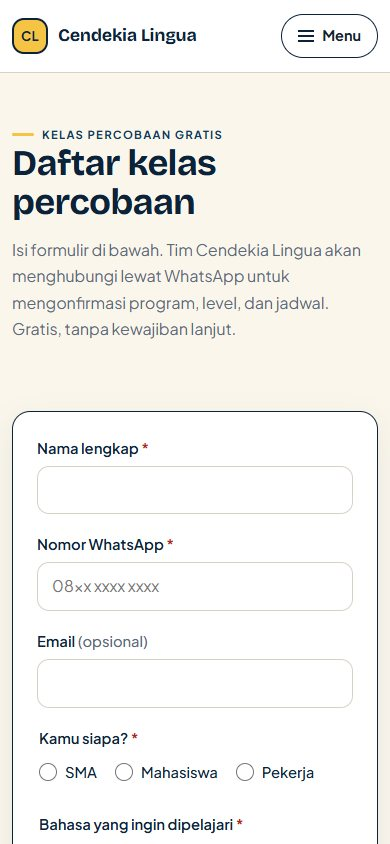
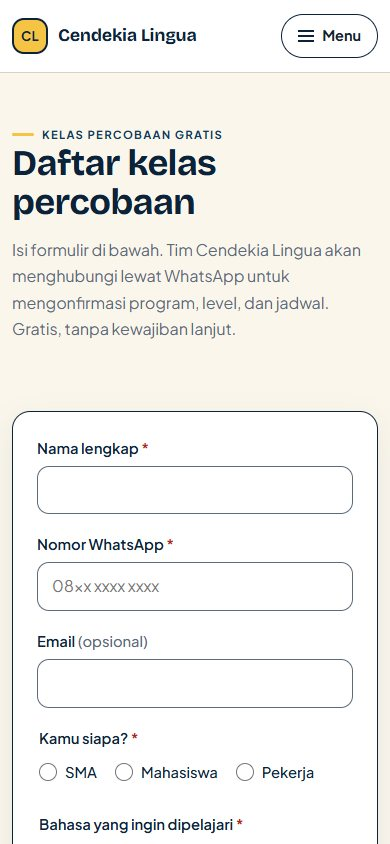
fix: address accessibility and interaction review findings
Raise form border contrast, use a visible ring on the navy CTA band, replace incomplete wireframe tab semantics with pressed toggles, keep one artboard for deep links, harden prefill and packaging, and make the contrast test compute real WCAG ratios.

Changed region(s): [[0.0923, 0.5545, 0.1231, 0.5853]]

diff --git a/js/main.js b/js/main.js
@@ -171,8 +171,18 @@ const Cendekia = {
     });
 
     nav.addEventListener('click', (event) => {
-      if (event.target.closest('a') && window.innerWidth < 980) {
-        closeNav(false);
+      const link = event.target.closest('a');
+      if (!link || window.innerWidth >= 980) return;
+
+      closeNav(false);
+
+      const url = new URL(link.href, window.location.href);
+      const samePage = url.pathname === window.location.pathname;
+      const target = samePage && url.hash ? document.getElementById(url.hash.slice(1)) : null;
+
+      if (target) {
+        target.setAttribute('tabindex', '-1');
+        target.focus({ preventScroll: true });
       }
     });
   },
@@ -283,8 +293,9 @@ const Cendekia = {
 
   prefillLeadProgram(form) {
     const slug = new URLSearchParams(window.location.search).get('program');
+    if (!slug || !Object.hasOwn(LEAD_PROGRAMS, slug)) return;
+
     const program = LEAD_PROGRAMS[slug];
-    if (!program) return;
 
     const note = document.querySelector('[data-program-note]');
     const name = document.querySelector('[data-program-name]');
@@ -389,7 +400,8 @@ const Cendekia = {
     form.hidden = true;
     panel.hidden = false;
     panel.querySelector('h2')?.focus();
-    panel.scrollIntoView({ behavior: 'smooth', block: 'start' });
+    const reduceMotion = window.matchMedia('(prefers-reduced-motion: reduce)').matches;
+    panel.scrollIntoView({ behavior: reduceMotion ? 'auto' : 'smooth', block: 'start' });
   },
 
   initWireframe() {
@@ -411,13 +423,19 @@ const Cendekia = {
         frame.classList.toggle('is-active', frame.dataset.artboardFrame === name);
       });
       tabs.forEach((tab) => {
-        tab.setAttribute('aria-selected', String(tab.dataset.artboardTab === name));
+        tab.setAttribute('aria-pressed', String(tab.dataset.artboardTab === name));
       });
       document.documentElement.dataset.wireframeArtboard = name;
     };
 
     const requested = params.get('artboard');
-    const initial = ['desktop', 'mobile'].includes(requested)
+    const hasRequest = ['desktop', 'mobile'].includes(requested);
+
+    if (hasRequest) {
+      document.documentElement.classList.add('has-artboard-request');
+    }
+
+    const initial = hasRequest
       ? requested
       : window.matchMedia('(max-width: 759px)').matches
         ? 'mobile'
@@ -425,14 +443,20 @@ const Cendekia = {
 
     setActive(initial);
 
-    if (!requested) {
+    let userChosen = false;
+
+    if (!hasRequest) {
       const media = window.matchMedia('(max-width: 759px)');
-      const syncDefault = () => setActive(media.matches ? 'mobile' : 'desktop');
-      window.addEventListener('load', syncDefault, { once: true });
+      media.addEventListener('change', (event) => {
+        if (!userChosen) setActive(event.matches ? 'mobile' : 'desktop');
+      });
     }
 
     tabs.forEach((tab) => {
-      tab.addEventListener('click', () => setActive(tab.dataset.artboardTab));
+      tab.addEventListener('click', () => {
+        userChosen = true;
+        setActive(tab.dataset.artboardTab);
+      });
     });
   },
 

diff --git a/style-guide.html b/style-guide.html
@@ -93,7 +93,7 @@
         </div>
         <ul class="sg-swatches">
           <li class="sg-swatch" data-swatch="navy-900">
-            <div class="sg-swatch-chip" style="--swatch: #0B2239; --on-swatch: #FAF6EC"><span>Aa</span></div>
+            <div class="sg-swatch-chip" style="--swatch: #0B2239; --on-swatch: #FFFFFF"><span>Aa</span></div>
             <div class="sg-swatch-body">
               <p class="sg-swatch-name">Navy 900</p>
               <code>#0B2239</code>
@@ -156,16 +156,16 @@
             </div>
           </li>
           <li class="sg-swatch" data-swatch="muted">
-            <div class="sg-swatch-chip" style="--swatch: #5C6B7A; --on-swatch: #FFFFFF"><span>Aa</span></div>
+            <div class="sg-swatch-chip" style="--swatch: #5C6B7A; --on-swatch: #FAF6EC"><span>Aa</span></div>
             <div class="sg-swatch-body">
               <p class="sg-swatch-name">Muted</p>
               <code>#5C6B7A</code>
               <p class="sg-ratio">5.07:1</p>
-              <p class="sg-usage">Di atas cream. Teks sekunder, keterangan, dan metadata.</p>
+              <p class="sg-usage">Di atas cream. Teks sekunder, metadata, dan border field form.</p>
             </div>
           </li>
           <li class="sg-swatch" data-swatch="line">
-            <div class="sg-swatch-chip" style="--swatch: #D8D2C4; --on-swatch: #0B2239"><span>Aa</span></div>
+            <div class="sg-swatch-chip" style="--swatch: #D8D2C4; --on-swatch: #FFFFFF"><span>Aa</span></div>
             <div class="sg-swatch-body">
               <p class="sg-swatch-name">Line</p>
               <code>#D8D2C4</code>

diff --git a/css/style.css b/css/style.css
@@ -187,7 +187,8 @@ p {
   outline-offset: 3px;
 }
 
-.site-footer :focus-visible {
+.site-footer :focus-visible,
+.cta-band :focus-visible {
   outline-color: var(--yellow-400);
 }
 
@@ -436,7 +437,7 @@ textarea {
   width: 100%;
   min-height: 44px;
   padding: 10px 14px;
-  border: 1.5px solid var(--line);
+  border: 1.5px solid var(--muted);
   border-radius: var(--radius-input);
   background: var(--white);
   color: var(--ink);
@@ -450,8 +451,8 @@ textarea {
 input:focus,
 select:focus,
 textarea:focus {
-  border-color: var(--navy-700);
-  outline: 3px solid var(--yellow-100);
+  border-color: var(--navy-900);
+  outline: 3px solid var(--navy-900);
   outline-offset: 1px;
 }
 
@@ -1761,7 +1762,7 @@ textarea[aria-invalid="true"] {
   cursor: pointer;
 }
 
-.wf-switch button[aria-selected="true"] {
+.wf-switch button[aria-pressed="true"] {
   background: var(--navy-900);
   color: var(--white);
 }
@@ -2355,6 +2356,12 @@ textarea[aria-invalid="true"] {
 }
 .is-export .wf-artboard--desktop { zoom: 1; }
 .is-export .wf-artboard--mobile { zoom: 1; }
+
+/* A deep link to one artboard stays on that artboard, even on wide screens. */
+.has-artboard-request .wf-stage { display: block; }
+.has-artboard-request .wf-frame { display: none; }
+.has-artboard-request .wf-frame.is-active { display: block; }
+.has-artboard-request .wf-switch { display: inline-flex; }
 
 /* --------------------------------------------------------------------------
    Style guide

diff --git a/wireframe.html b/wireframe.html
@@ -48,9 +48,9 @@
           <li><strong>Gaya:</strong> grayscale; warna dan tipografi final dibahas di <a href="style-guide.html">style guide</a>.</li>
           <li><strong>Skala:</strong> desktop diperkecil ±0,6 saat dua artboard tampil berdampingan; mobile tetap 1:1.</li>
         </ul>
-        <div class="wf-switch" data-artboard-switch role="tablist" aria-label="Pilih artboard">
-          <button type="button" role="tab" data-artboard-tab="desktop" aria-selected="true" aria-controls="wf-desktop">Desktop 1440</button>
-          <button type="button" role="tab" data-artboard-tab="mobile" aria-selected="false" aria-controls="wf-mobile">Mobile 390</button>
+        <div class="wf-switch" data-artboard-switch aria-label="Pilih artboard">
+          <button type="button" data-artboard-tab="desktop" aria-pressed="true">Desktop 1440</button>
+          <button type="button" data-artboard-tab="mobile" aria-pressed="false">Mobile 390</button>
         </div>
         <p class="wf-hint">Di bawah 1360 px hanya satu artboard tampil. Desktop bisa digeser di dalam frame; body halaman tidak pernah scroll horizontal.</p>
       </div>

diff --git a/daftar.html b/daftar.html
@@ -131,6 +131,7 @@
             <div class="form-actions">
               <button class="btn btn-primary" type="button" data-submit>Kirim pendaftaran</button>
               <p class="form-note">Mode demo — data tidak dikirim ke server.</p>
+              <noscript><p class="form-note">Form ini memerlukan JavaScript untuk validasi dan mode demo. Tanpa JavaScript, tidak ada data yang dikirim.</p></noscript>
             </div>
           </form>
 

diff --git a/docs/design-notes.md b/docs/design-notes.md
@@ -66,8 +66,8 @@ Section “program” dan “harga” sengaja berdekatan. Setelah pengunjung men
 | `--cream` | `#FAF6EC` | Latar utama | 14.94:1 dengan navy |
 | `--white` | `#FFFFFF` | Kartu dan input | 16.13:1 dengan navy |
 | `--ink` | `#16202B` | Body text | 15.25:1 di cream |
-| `--muted` | `#5C6B7A` | Teks sekunder | 5.07:1 di cream |
-| `--line` | `#D8D2C4` | Border dekoratif | 1.51:1 — tidak untuk teks |
+| `--muted` | `#5C6B7A` | Teks sekunder dan border field form | 5.07:1 di cream |
+| `--line` | `#D8D2C4` | Border dekoratif saja | 1.51:1 - tidak untuk teks atau batas field |
 | `--success` | `#1F7A5C` | WhatsApp dan status sukses | 5.25:1 dengan putih |
 
 Prinsipnya:
@@ -75,7 +75,7 @@ Prinsipnya:
 - Navy dipakai untuk struktur dan teks, bukan untuk semua permukaan.
 - Kuning hanya untuk aksi utama dan highlight. Kalau semua tombol kuning, tidak ada yang menonjol.
 - Krem memberi kesan hangat dan membedakan dari template putih-biru yang generik.
-- Rasio kontras dihitung dengan rumus WCAG, bukan dikarang. Angka yang sama muncul di `style-guide.html`.
+- Rasio kontras dihitung dengan rumus WCAG, bukan dikarang. Angka yang sama muncul di `style-guide.html`, dan test menghitung ulang setiap pasangan warna.
 - Kuning tidak pernah dipakai sebagai teks di atas putih. Rasionya hanya 1.63:1.
 
 ### Tipografi
@@ -154,9 +154,11 @@ Yang diterapkan:
 
 - Landmark `header`, `nav`, `main`, `footer`; satu `h1` per halaman; heading tidak melompat.
 - Skip link “Langsung ke konten” yang muncul saat fokus.
-- Fokus keyboard memakai outline navy 3 px dengan offset 3 px, bukan `outline: none`.
-- Drawer mobile: `aria-expanded`, fokus masuk ke link pertama, Escape menutup, fokus kembali ke tombol menu, dan fokus terperangkap di dalam drawer saat Tab.
+- Fokus keyboard memakai outline navy 3 px dengan offset 3 px, bukan `outline: none`. Di footer dan CTA band yang berlatar navy, warna outline diganti kuning.
+- Border field form memakai `--muted` (5.07:1 di cream), bukan `--line`, supaya batas kontrol tetap terlihat.
+- Drawer mobile: `aria-expanded`, fokus masuk ke link pertama, Escape menutup, fokus kembali ke tombol menu, dan fokus terperangkap di dalam drawer saat Tab. Link anchor memindahkan fokus ke section tujuan.
 - Tab audiens: `role="tablist"`, `aria-selected`, `aria-controls`, panah kiri/kanan, Home, dan End.
+- Wireframe memakai dua toggle button dengan `aria-pressed`, bukan `role="tab"` setengah jadi.
 - Filter program: `aria-pressed` pada setiap chip.
 - Dialog WhatsApp: `<dialog>` native, fokus masuk, Escape menutup, fokus kembali ke pemicu, body tidak scroll. Handler `cancel` dibuat eksplisit supaya perilaku tidak bergantung pada event `close` native.
 - Form: label eksplisit, error `aria-invalid` + `aria-describedby`, fokus pindah ke field pertama yang salah.
@@ -177,7 +179,7 @@ Satu temuan kontras ditemukan saat Lighthouse pertama: teks “CL” di logo foo
 
 Diuji dengan Chrome headless dan Chrome visible (Playwright), viewport 390, 768, dan 1440 px.
 
-- 41 automated test pass.
+- 41 markup/content contract test pass. Perilaku interaktif di bawah ini diverifikasi manual di browser, bukan oleh test tersebut.
 - 0 console error dan 0 request lokal gagal.
 - Tidak ada horizontal overflow.
 - Semua link internal dan anchor valid.
@@ -185,7 +187,9 @@ Diuji dengan Chrome headless dan Chrome visible (Playwright), viewport 390, 768,
 - Form invalid memfokuskan `name`; submit valid menampilkan success panel dan menghasilkan 0 request jaringan.
 - Sticky CTA aktif setelah hero, memberi padding bawah 88 px, dan tidak menutupi footer.
 - Dialog: close button, backdrop, dan Escape semuanya melepas `body` lock serta mengembalikan fokus.
-- Focus ring terverifikasi lewat Tab nyata: outline solid 3 px `rgb(11, 34, 57)`.
+- Focus ring terverifikasi lewat Tab nyata: outline solid 3 px `rgb(11, 34, 57)`, dan kuning di atas CTA band navy.
+- Link anchor dari drawer memindahkan fokus ke section tujuan.
+- Wireframe: toggle `aria-pressed` berubah, deep link `?artboard=mobile` hanya menampilkan mobile di desktop.
 
 Yang belum diuji: screen reader sungguhan (NVDA/VoiceOver), Safari, Firefox, dan perangkat fisik. Performa produksi juga belum diukur setelah deploy.
 

diff --git a/README.md b/README.md
@@ -129,7 +129,7 @@ Kalau memakai `file://`, sebagian browser memblokir pemuatan font atau modul. St
 node --test "tests/*.test.mjs"
 ```
 
-Saat README ini ditulis: **41 test, 41 pass**. Cakupannya:
+Saat README ini ditulis: **41 test, 41 pass**. Test ini berbasis markup dan kontrak source, bukan browser otomatis. Perilaku interaktif diverifikasi manual di Chrome (lihat bagian QA di bawah). Cakupannya:
 
 - Struktur lima halaman: doctype, `lang="id"`, viewport, satu `h1`, landmark, skip link, dialog, dan disclaimer.
 - Token warna/font, reduced motion, serta kontrak `window.Cendekia`.
@@ -137,9 +137,9 @@ Saat README ini ditulis: **41 test, 41 pass**. Cakupannya:
 - Halaman program: empat filter, enam kartu sesuai matriks, placement test.
 - Form: sembilan field, opsi yang benar, validasi, success panel, dan tidak ada pengiriman data.
 - Wireframe: dua artboard literal, anotasi, switcher, dan mode ekspor.
-- Style guide: sepuluh section, sepuluh token dengan rasio kontras hasil hitungan, specimen tipe, state tombol/form, komponen, spacing, do/don't, dan catatan aksesibilitas.
+- Style guide: sepuluh section, sepuluh token dengan rasio kontras yang dihitung ulang oleh test dari pasangan warna, specimen tipe, state tombol/form, komponen, spacing, do/don't, dan catatan aksesibilitas.
 - Link checker: semua `href`/`src` lokal dan anchor menuju target yang ada, tidak ada `href="#"` atau `javascript:`.
-- Regresi dialog: close harus melepas scroll lock dan mengembalikan fokus tanpa bergantung pada event `close` native.
+- Kontrak source dialog: close harus memulihkan fokus dan `cancel` ditangani eksplisit, tanpa bergantung pada event `close` native.
 
 Quality check tambahan di Chrome headless (7 November 2026):
 
@@ -156,8 +156,11 @@ QA manual juga mencakup 390, 768, dan 1440 px:
 - Tidak ada heading yang melompat.
 - Drawer, tab (termasuk panah keyboard), filter, FAQ, dan dialog berfungsi.
 - Escape menutup drawer/dialog dan fokus kembali ke pemicu.
+- Link anchor dari drawer memindahkan fokus ke section tujuan.
 - Sticky CTA tidak menutupi footer.
 - Form invalid memfokuskan field pertama yang salah; submit valid tidak memicu request jaringan.
+- Focus ring form dan tombol di CTA band terlihat di atas latar masing-masing.
+- Wireframe memakai toggle button dengan `aria-pressed`; deep link `?artboard=` hanya menampilkan satu artboard.
 
 ## Screenshot
 
